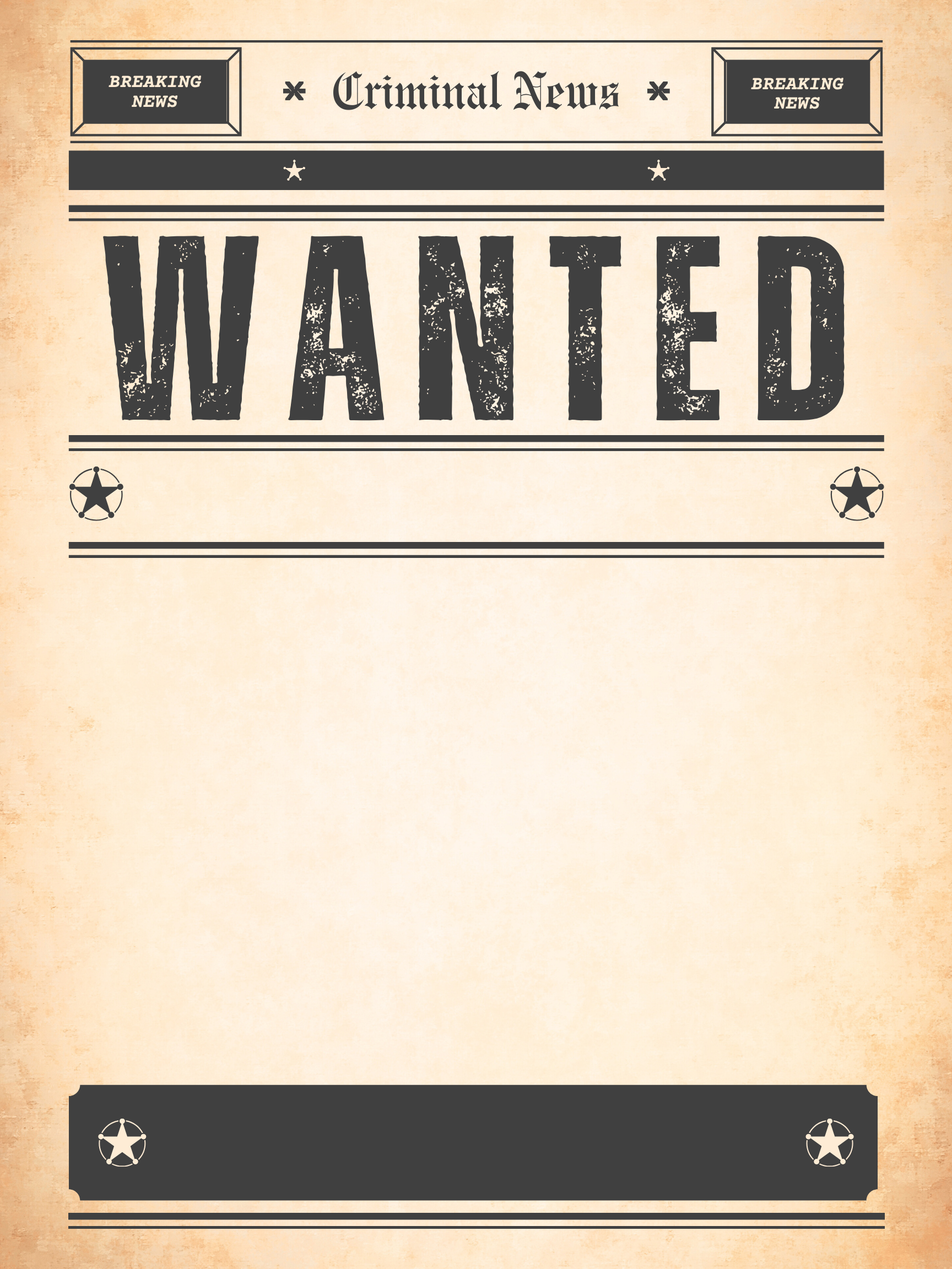
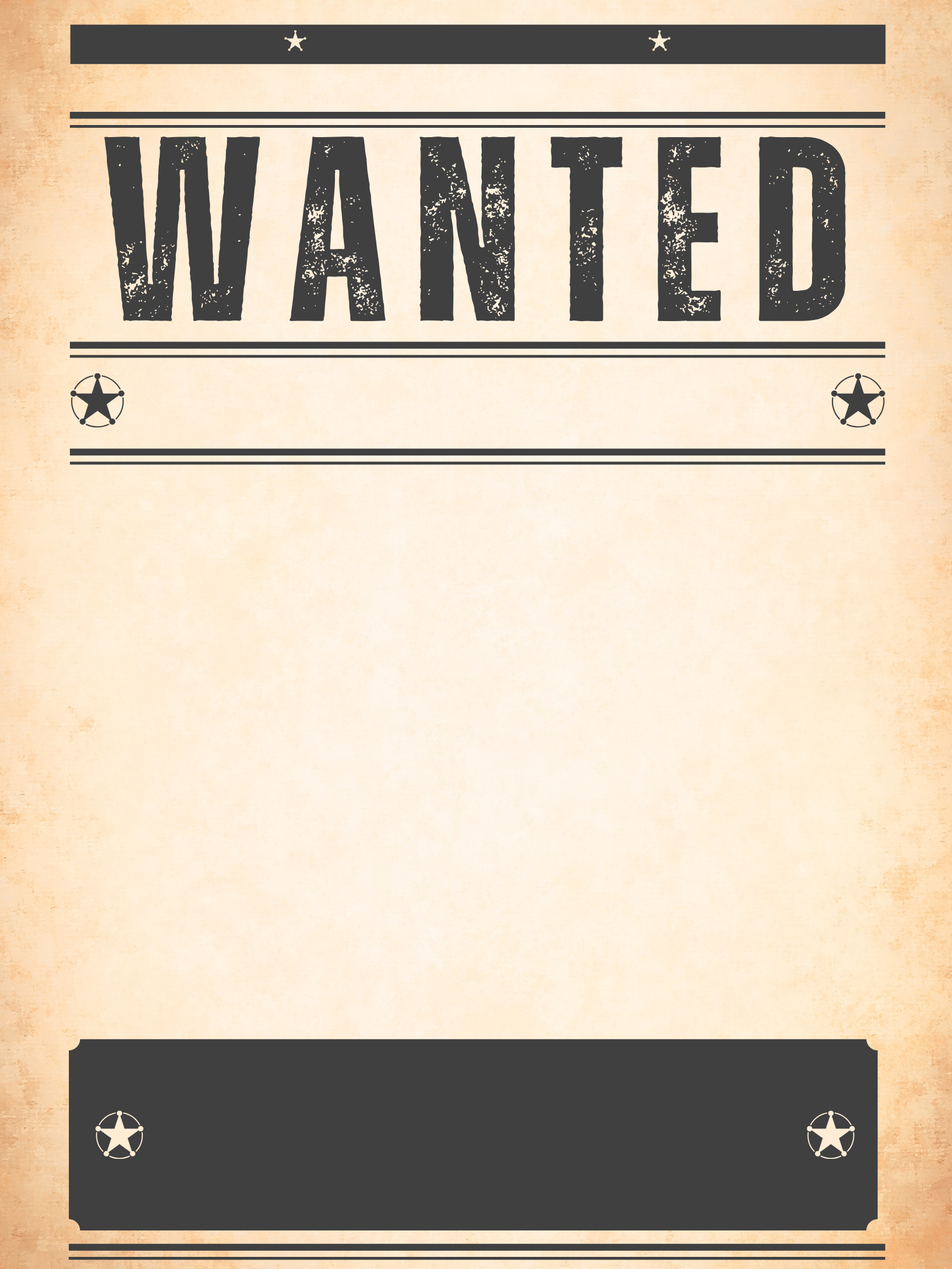
Changed Templates to good ones

Changed region(s): [[0.0625, 0.0, 0.9375, 0.4375], [0.0625, 0.8125, 0.9375, 1.0]]

diff --git a/PosterGenerator.py b/PosterGenerator.py
@@ -161,20 +161,6 @@ def create_poster(template, portrait):
             draw_text(f"${bounty_entry.get().strip()}", temp, 88, font_size=115)
             
             temp.show()
-
-        case "Template_6":
-    
-            img = filter_image(portrait, grain=True)
-            temp = filter_image("5.png", width=WIDTH, height=HEIGHT)
-
-            temp.paste(img, (int((WIDTH / 2) - ((WIDTH / 2) / 2)), int((HEIGHT / 2) - ((HEIGHT  * (9/24)) / 2))))
-
-            draw_text(name_entry.get().strip(), temp, 70)
-            draw_text(location_entry.get().strip(), temp, 80, font_size=100.0)
-            draw_text(f"${bounty_entry.get().strip()}", temp, 88, font_size=115)
-            
-            temp.show()
-
         case _:
 
             print("Please select a valid template!")
